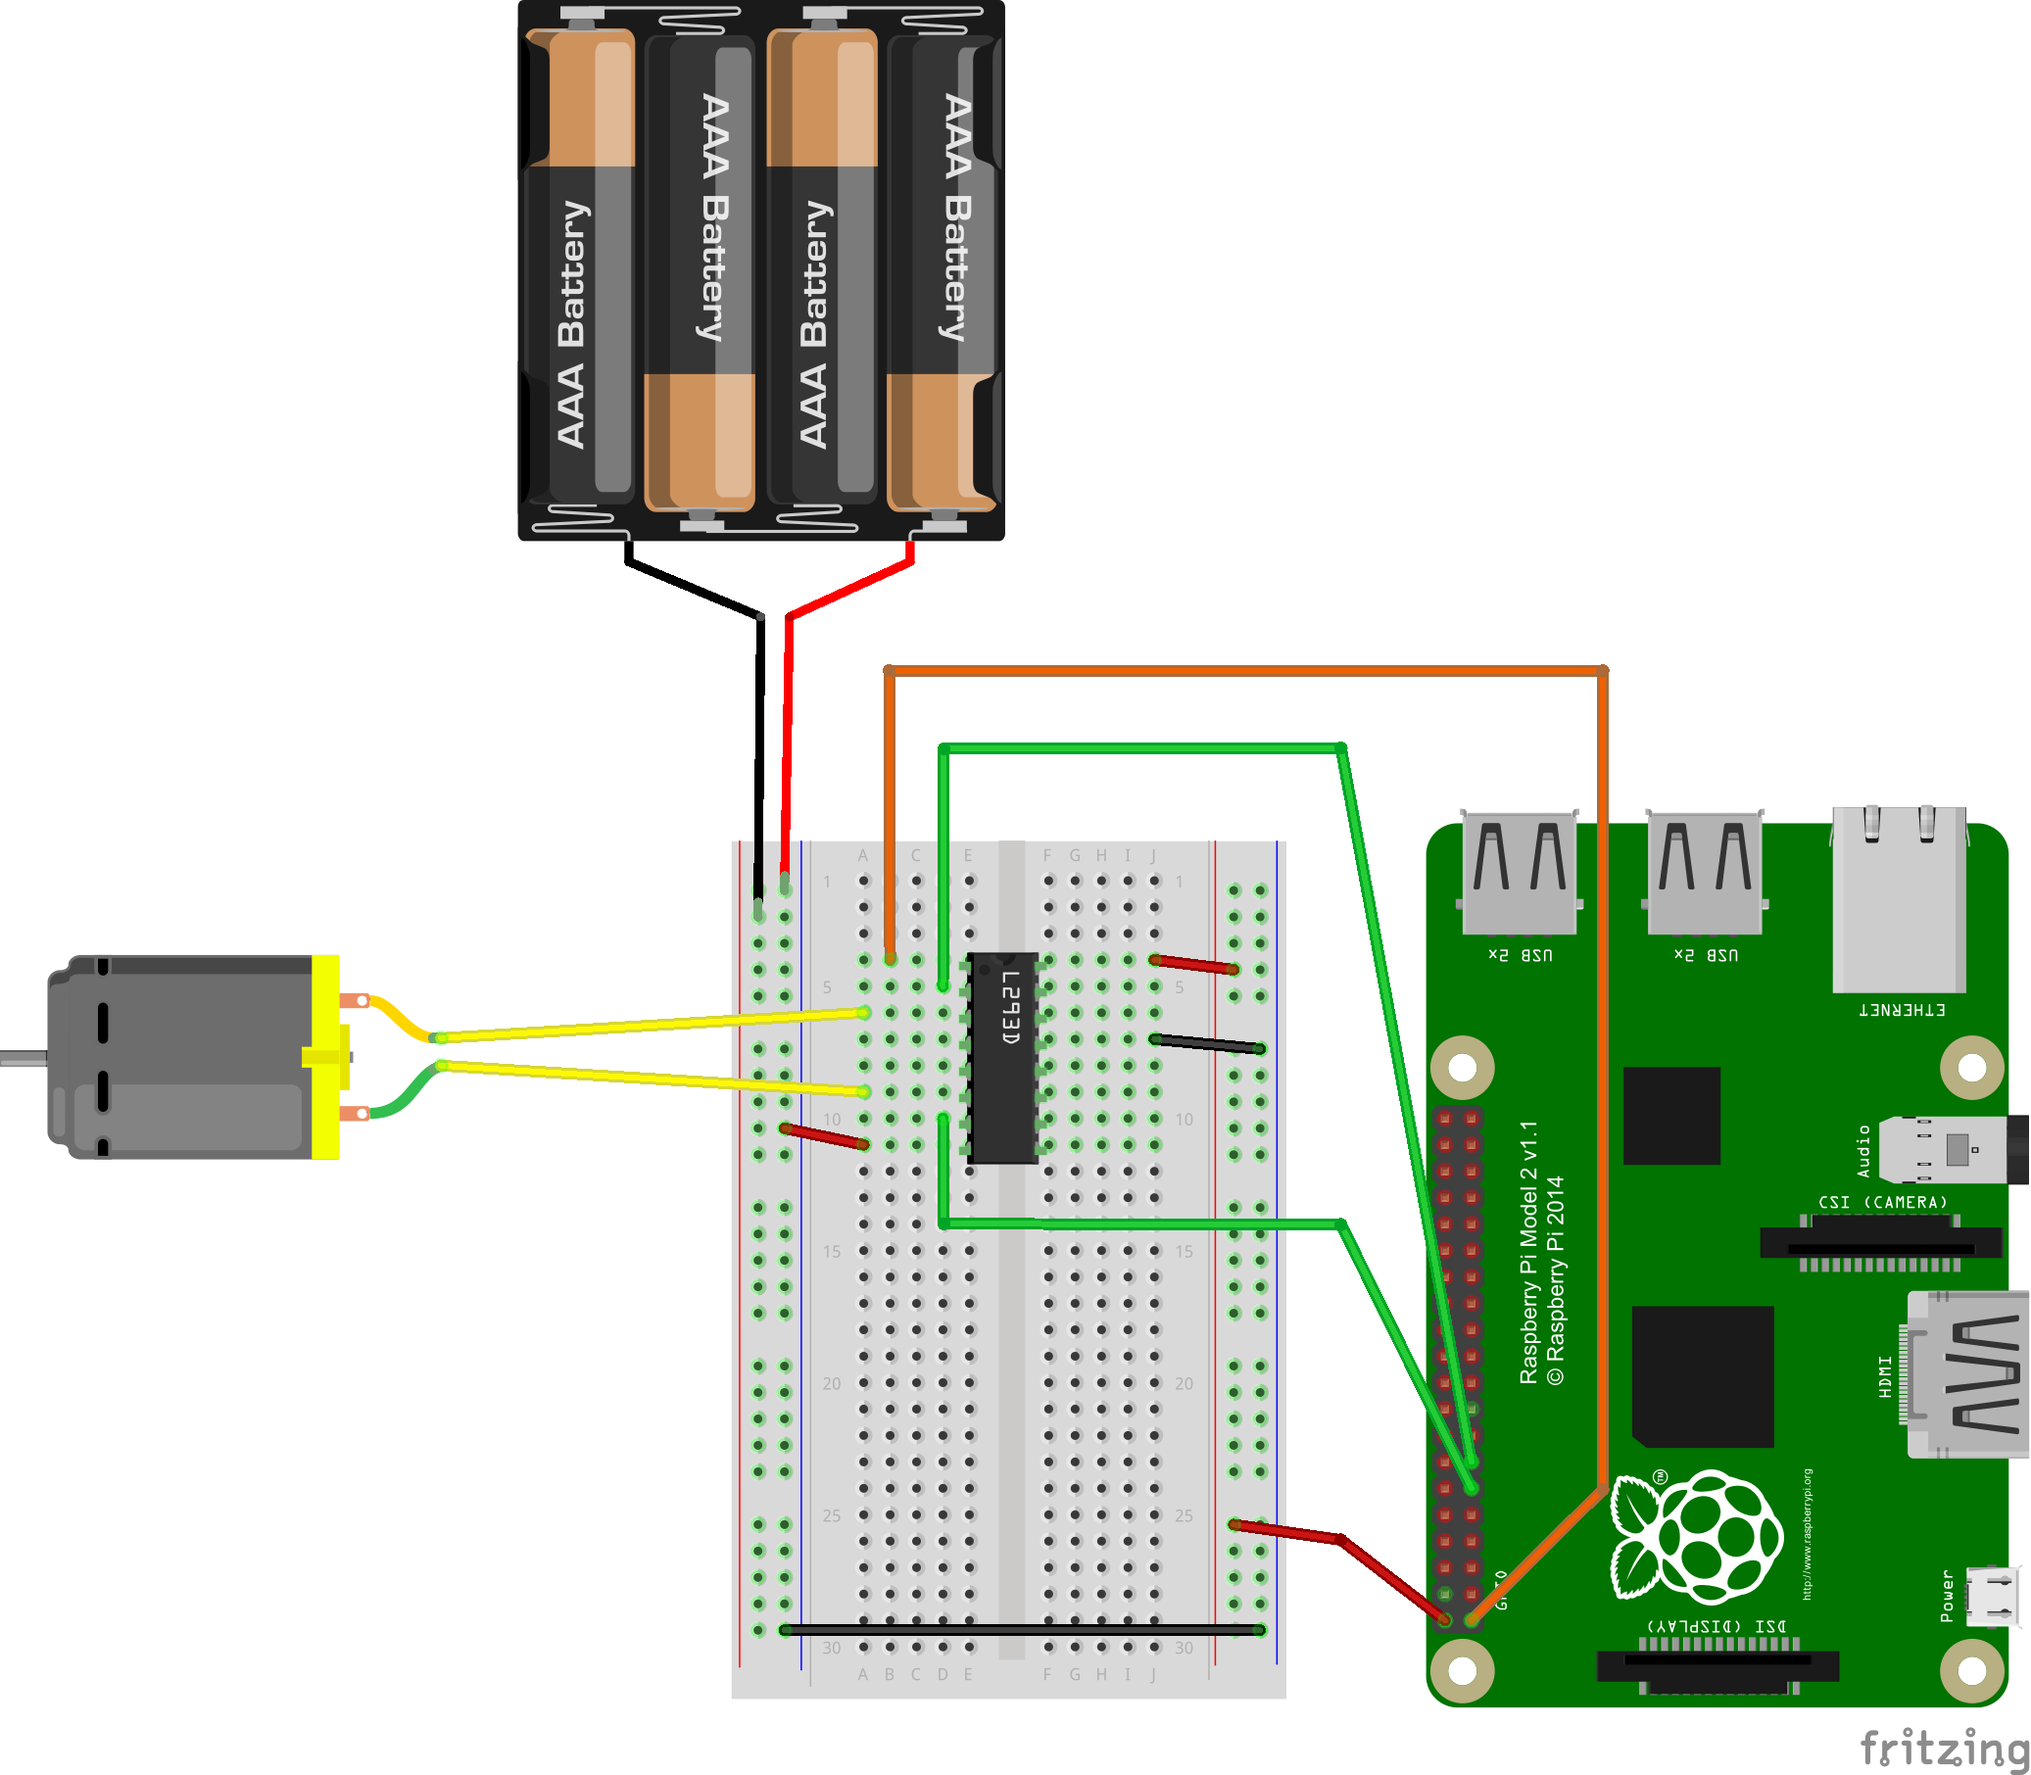
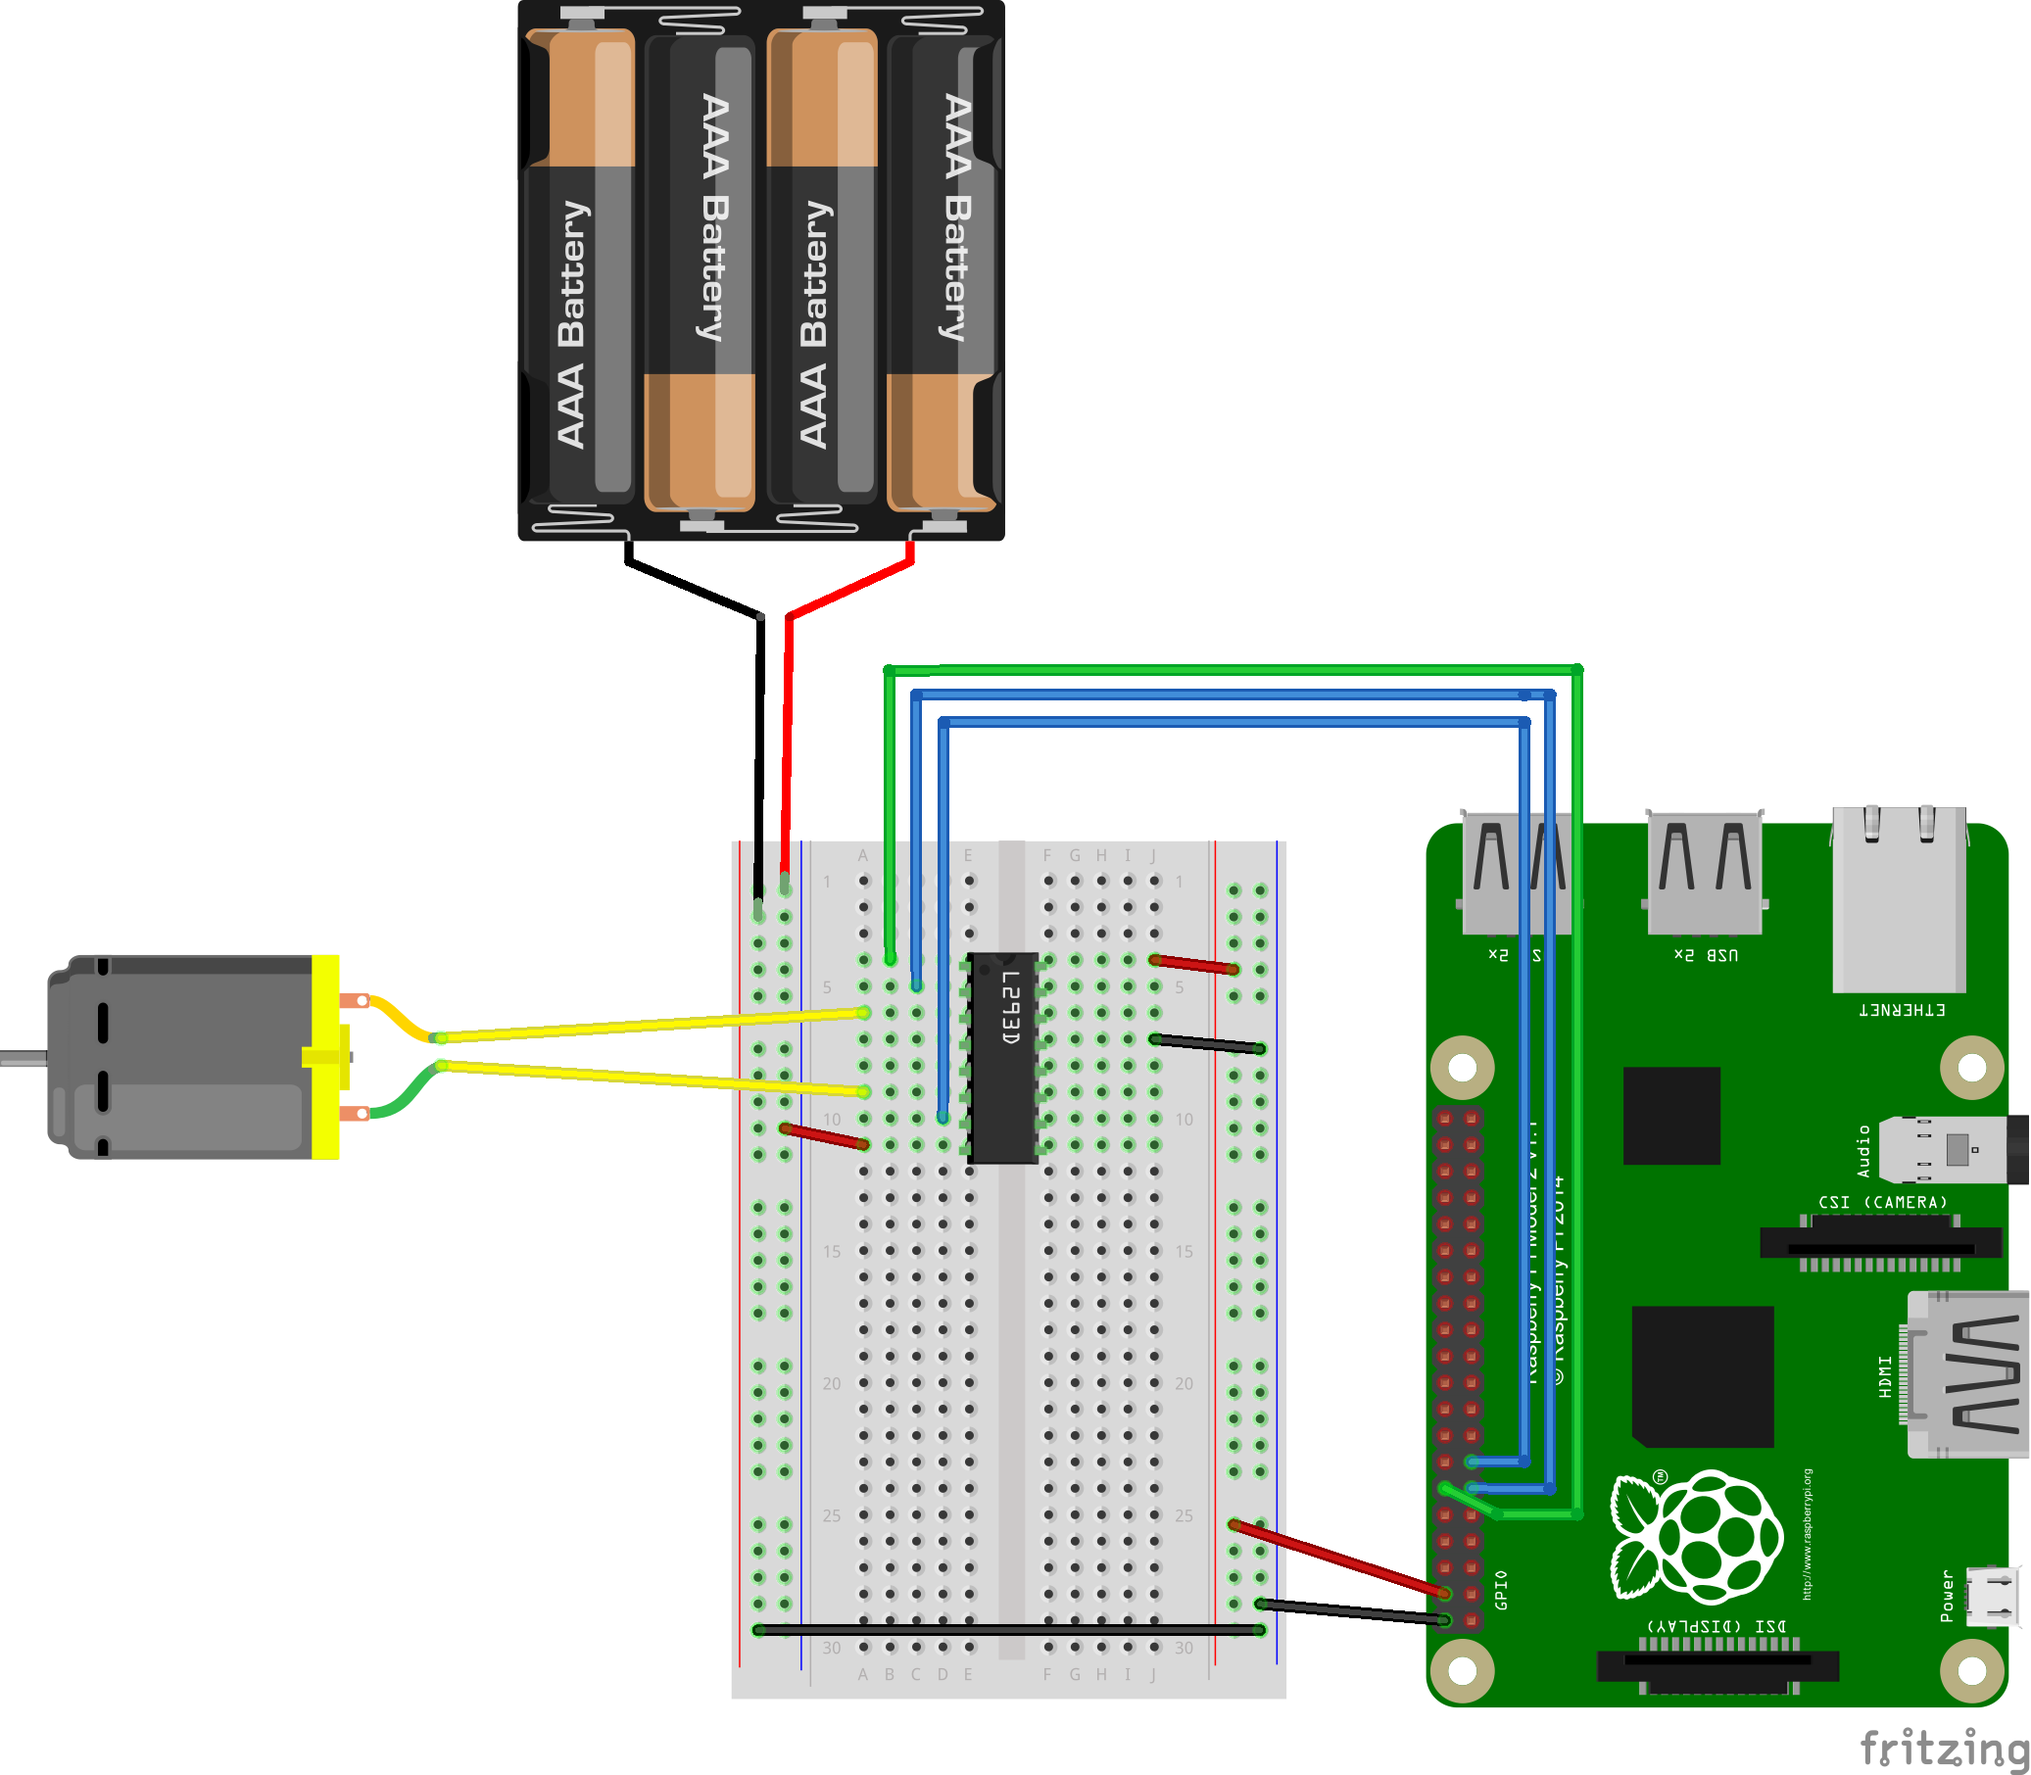
Update motor configuration. Add SIGINT handler for clean shutdown. update motor sketch

Changed region(s): [[0.4322, 0.3709, 0.8027, 0.8962], [0.6175, 0.8344, 0.741, 0.9272], [0.3705, 0.8962, 0.4014, 0.9272]]

diff --git a/server/api/component/component.service.js b/server/api/component/component.service.js
@@ -15,12 +15,12 @@ var rangeSrv = require('./component.range.service');
 var LEDRED = 'GPIO21';
 var LEDYELLOW = 'GPIO20';
 var LEDGREEN = 'GPIO26';
-var LEDWHITE = ['GPIO19', 'GPIO16'];
+var LEDWHITE = ['GPIO6', 'GPIO12'];
 var BUZZER = 'GPIO13';
 var RANGE1 = [16,18];
 var RANGE2 = [7,11];
-var MOTOR1 = ['GPIO18','GPIO17','GPIO27'];
-var MOTOR2 = [19,18,22];
+var MOTOR1 = ['GPIO18','GPIO17','GPIO27']; /*PWM0*/
+var MOTOR2 = ['GPIO19','GPIO23','GPIO22']; /*PWM1*/
 
 // init all gpio components
 var components = {
@@ -34,8 +34,8 @@ var components = {
     {channel: BUZZER, name: 'Piezo', info: 'piezo', value: 0}
   ],
   motor: [
-    {channel: MOTOR1, name: 'Propulsion', info: 'hbridge', value: 0},
-    //{channel: MOTOR2, name: 'Direction', info: 'hbridge', value: 0}
+    {channel: MOTOR1, name: 'Direction', info: 'hbridge', value: 0},
+    {channel: MOTOR2, name: 'Propulsion', info: 'hbridge', value: 0}
   ],
   range: [
     {channel: RANGE1, name: 'Range sensor 1', info: 'ultrasonic', value: 0}, 
@@ -156,7 +156,7 @@ class ComponentService {
               currentComponent.value = 'blink';
             } else {
               currentComponent.value = (currentComponent.value + 1) % 2;
-              gpios[currentComponent.id].stop(); // sto blinking
+              gpios[currentComponent.id].stop(); // stop blinking
               gpios[currentComponent.id].toggle();
             }
       /*
@@ -199,6 +199,22 @@ class ComponentService {
       return currentComponent;
     }
 }
+
+process.on('SIGINT', function() {
+  console.log('SIGINT detected : shutting down system gracefully');
+  components.led.forEach(led => {
+      console.log('- closing ' + led.id + ' (' + led.type + ') => ' + led.name);
+      gpios[led.id].off();
+  });
+  components.buzzer.forEach(buzzer => {
+      gpios[buzzer.id].off;
+      console.log('- closing: ' + buzzer.id + ' (' + buzzer.type + ') => ' + buzzer.name);
+  });
+  components.motor.forEach(motor => {
+      console.log('- closing ' + motor.id + ' (' + motor.type + ') => ' + motor.name);
+      gpios[motor.id].stop();
+  });
+});
 
 var componentService = new ComponentService()
 module.exports = componentService;
